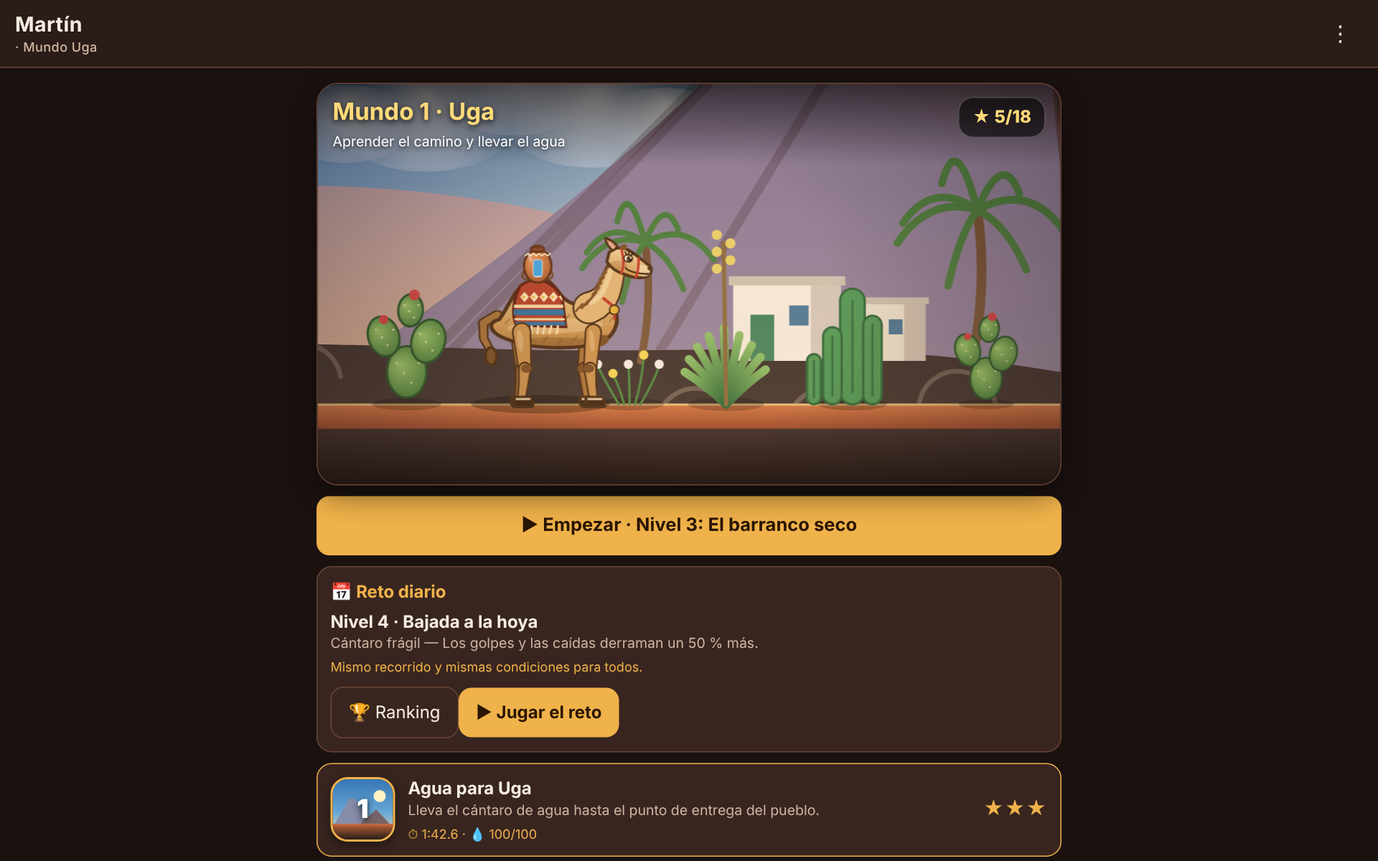
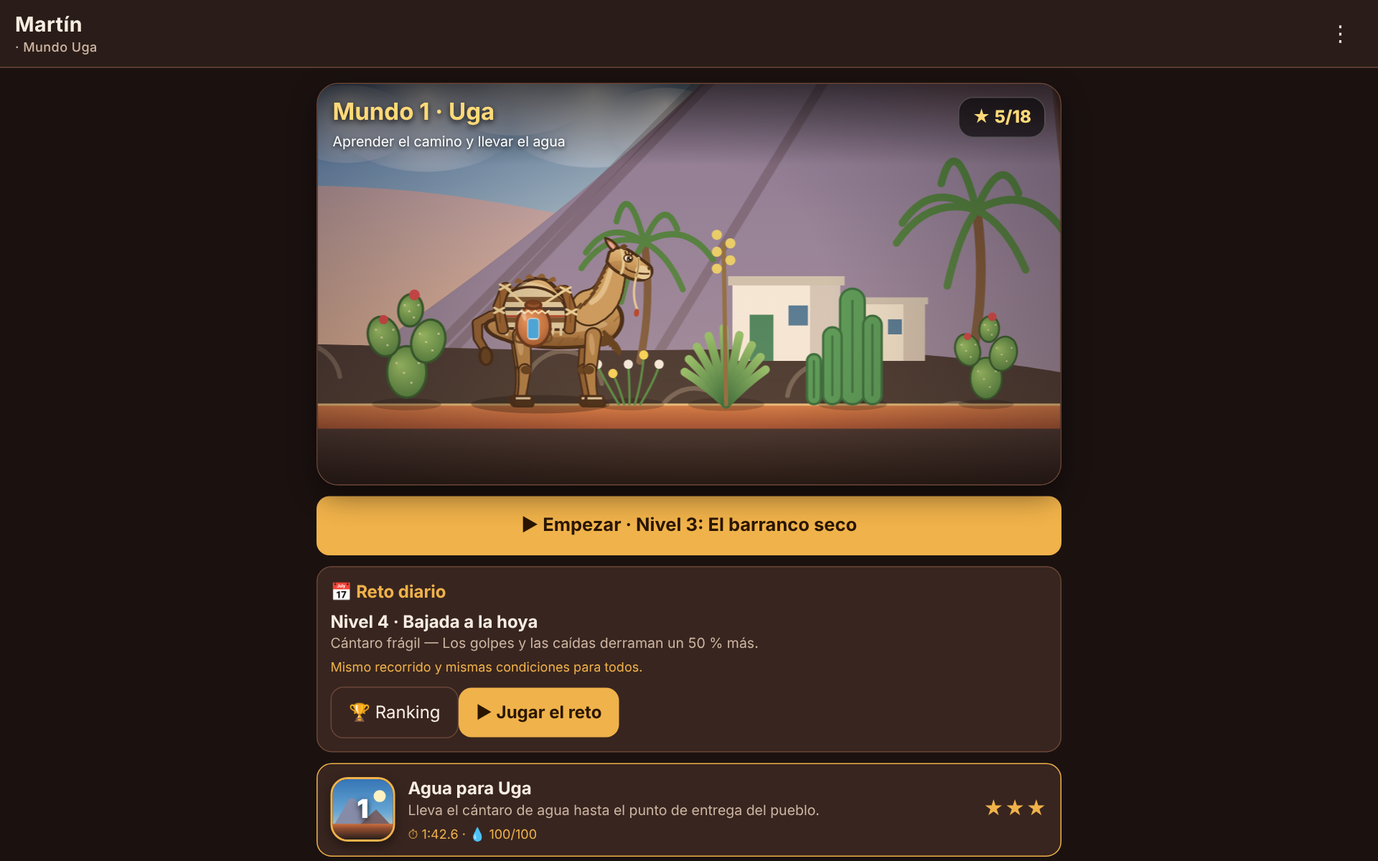
1.4.0: camello canario tradicional (pelaje pardo con pelo largo en la joroba, manta de lana natural, silla de carga de madera con cuerdas, tinaja de barro, cabezada de cuerda con ramal)
Claude-Session: https://claude.ai/code/session_01H2Jf8v1MHtV6zTpVoU4WWj

diff --git a/docs/app/dibujo.js b/docs/app/dibujo.js
@@ -87,7 +87,7 @@
   function suelo(L, x, y) { let best = L.world.kill_y; for (const s of L.solids) if (s.kind !== 'oneway' && s.x0 <= x && s.x1 >= x && s.top <= y + 0.05 && s.top > best) best = s.top; return best; }
 
   /* ================== MARTÍN ================== */
-  const PEL = { luz: '#f0d3a0', claro: '#e0b678', medio: '#c99250', sombra: '#a8733a', osc: '#7a5028', borde: '#4a2e17' };
+  const PEL = { luz: '#dcb67c', claro: '#c79a5e', medio: '#aa7b45', sombra: '#86592f', osc: '#5a3a1c', borde: '#3a2312', hocico: '#e6cfa0' };
 
   /* Trazo cónico (muslo, caña, cuello): primero el contorno, luego el relleno, para que no se vean costuras */
   function conico(ctx, pts, ws, fill, borde, lw) {
@@ -105,7 +105,7 @@
 
   /* Pata de dromedario: cadera → rodilla (almohadilla oscura) → caña fina → pezuña ancha. sg = lado en que dobla la rodilla */
   function pata(ctx, hx, hy, fx, fy, sg, cerca, anchoMuslo) {
-    const a = 0.5, b = 0.48, dx = fx - hx, dy = fy - hy, dd = Math.hypot(dx, dy) || 1, d = Math.min(dd, a + b - 0.004);
+    const a = 0.47, b = 0.45, dx = fx - hx, dy = fy - hy, dd = Math.hypot(dx, dy) || 1, d = Math.min(dd, a + b - 0.004);
     const ux = dx / dd, uy = dy / dd, p = (d * d + a * a - b * b) / (2 * d), h = Math.sqrt(Math.max(0, a * a - p * p));
     const kx = hx + ux * p - uy * h * sg, ky = hy + uy * p + ux * h * sg, ex = hx + ux * d, ey = hy + uy * d;
     const col = cerca ? PEL.medio : PEL.sombra;
@@ -126,17 +126,20 @@
     ctx.beginPath(); ctx.moveTo(-0.17, 0.08);
     ctx.bezierCurveTo(-0.1, 0.19, 0.05, 0.19, 0.17, 0.12);     // frente
     ctx.bezierCurveTo(0.27, 0.07, 0.34, 0.03, 0.4, 0.0);       // caballete
-    ctx.bezierCurveTo(0.45, -0.03, 0.46, -0.11, 0.4, -0.15);   // hocico
-    ctx.bezierCurveTo(0.34, -0.2, 0.2, -0.21, 0.1, -0.18);     // labio y mentón
+    ctx.bezierCurveTo(0.46, -0.03, 0.48, -0.14, 0.4, -0.18);   // hocico
+    ctx.bezierCurveTo(0.34, -0.24, 0.2, -0.24, 0.1, -0.2);     // labio y mentón
     ctx.bezierCurveTo(0.0, -0.17, -0.1, -0.14, -0.18, -0.05); ctx.closePath(); ctx.fill(); ctx.stroke();
     // hocico claro y mejilla
-    ctx.fillStyle = 'rgba(255,240,205,.55)'; ctx.beginPath(); ctx.ellipse(0.33, -0.09, 0.1, 0.075, -0.2, 0, TAU); ctx.fill();
+    ctx.fillStyle = PEL.hocico; ctx.beginPath(); ctx.ellipse(0.33, -0.11, 0.11, 0.09, -0.2, 0, TAU); ctx.fill();
     ctx.fillStyle = 'rgba(120,70,30,.18)'; ctx.beginPath(); ctx.ellipse(-0.02, -0.07, 0.13, 0.06, 0.2, 0, TAU); ctx.fill();
     // ventana de la nariz y boca sonriente
     ctx.fillStyle = '#4a2e17'; ctx.beginPath(); ctx.ellipse(0.4, -0.045, 0.016, 0.026, 0.5, 0, TAU); ctx.fill();
     ctx.strokeStyle = '#4a2e17'; ctx.lineWidth = 0.024; ctx.lineCap = 'round'; ctx.beginPath(); ctx.moveTo(0.41, -0.115); ctx.quadraticCurveTo(0.27, -0.15, 0.13, -0.115); ctx.quadraticCurveTo(0.1, -0.108, 0.09, -0.09); ctx.stroke();
-    // cabezada roja
-    ctx.strokeStyle = '#c23a2a'; ctx.lineWidth = 0.034; ctx.beginPath(); ctx.moveTo(0.24, 0.07); ctx.quadraticCurveTo(0.27, -0.06, 0.25, -0.19); ctx.moveTo(-0.02, 0.17); ctx.quadraticCurveTo(0.08, -0.04, 0.04, -0.17); ctx.stroke();
+    // cabezada de cuerda natural
+    ctx.strokeStyle = '#e4cf9a'; ctx.lineWidth = 0.036; ctx.beginPath(); ctx.moveTo(0.24, 0.07); ctx.quadraticCurveTo(0.27, -0.06, 0.25, -0.19); ctx.moveTo(-0.02, 0.17); ctx.quadraticCurveTo(0.08, -0.04, 0.04, -0.17); ctx.stroke();
+    ctx.strokeStyle = '#8a6a3a'; ctx.lineWidth = 0.014; ctx.beginPath(); ctx.moveTo(0.24, 0.07); ctx.quadraticCurveTo(0.27, -0.06, 0.25, -0.19); ctx.stroke();
+    // ramal de arrastre con borla
+    const rs = Math.sin(T * 2.3) * 0.03; ctx.strokeStyle = '#e4cf9a'; ctx.lineWidth = 0.03; ctx.beginPath(); ctx.moveTo(0.25, -0.2); ctx.quadraticCurveTo(0.2 + rs, -0.45, 0.28 + rs * 2, -0.62); ctx.stroke(); ctx.fillStyle = '#b3402a'; ctx.beginPath(); ctx.ellipse(0.28 + rs * 2, -0.67, 0.035, 0.055, rs, 0, TAU); ctx.fill();
     // oreja
     const fl = Math.sin(T * 2.7) > 0.93 ? 0.35 : 0;
     ctx.save(); ctx.translate(-0.1, 0.14); ctx.rotate(0.55 + fl); ctx.fillStyle = PEL.medio; ctx.strokeStyle = PEL.borde; ctx.lineWidth = 0.03;
@@ -166,7 +169,7 @@
     const sq = st.golpe > 0 ? 1 - st.golpe * 0.12 : 1, f = clamp(st.agua / 100, 0, 1);
     const cabeceo = anim === 'salta' ? 0.1 : anim === 'cae' ? -0.1 : 0;
     ctx.translate(0, hop); ctx.scale(1 + (1 - sq) * 0.6, sq);
-    const hipY = 0.97 + bob, KX = 1.2;
+    const hipY = 0.92 + bob, KX = 1.3;
     const objetivo = (hx, fase, delante, cerca) => {
       if (anim === 'salta') return [hx + (delante ? 0.42 : -0.3), delante ? 0.66 : 0.34];
       if (anim === 'cae') return [hx + (delante ? 0.26 : -0.28), 0.1];
@@ -201,39 +204,45 @@
     for (let i = 0; i < 16; i++) { const x = -0.6 + (i % 8) * 0.17 + (i > 7 ? 0.08 : 0), y = 0.85 + Math.floor(i / 8) * 0.28 + hash(i) * 0.1; ctx.beginPath(); ctx.moveTo(x, y + B); ctx.lineTo(x - 0.05, y - 0.07 + B); ctx.stroke(); }
     ctx.restore();
     ctx.fillStyle = PEL.osc; ctx.beginPath(); ctx.ellipse(0.52, 0.85 + B, 0.1, 0.07, 0.5, 0, TAU); ctx.fill();   // callo del pecho
+    // pelo largo de la joroba y de la pechera
+    ctx.fillStyle = PEL.sombra; ctx.strokeStyle = PEL.borde; ctx.lineWidth = 0.025; ctx.lineJoin = 'round';
+    [[-0.54, 1.46], [-0.47, 1.58], [-0.38, 1.67], [-0.27, 1.73], [-0.15, 1.74], [-0.04, 1.69], [0.03, 1.58]].forEach(([x, y], i) => { const o = Math.sin(T * 2 + i) * 0.012, dx = (i - 3) * 0.022; ctx.beginPath(); ctx.moveTo(x - 0.05, y + B - 0.03); ctx.quadraticCurveTo(x + dx, y + B + 0.1 + o, x + 0.05, y + B - 0.03); ctx.closePath(); ctx.fill(); });
+    ctx.fillStyle = PEL.osc; for (let i = 0; i < 5; i++) { const x = 0.52 + i * 0.03, y = 1.0 - i * 0.04 + B; ctx.beginPath(); ctx.moveTo(x, y); ctx.quadraticCurveTo(x + 0.1, y - 0.15 + Math.sin(T * 2 + i) * 0.01, x + 0.02, y - 0.2); ctx.lineTo(x - 0.03, y - 0.02); ctx.closePath(); ctx.fill(); }
     ctx.restore();
     // cuello curvo con crin
     const sway = Math.sin(ph * 0.5) * (corre ? 0.05 : 0.01) + Math.sin(T * 1.7) * 0.012, tip = anim === 'salta' ? 0.08 : anim === 'cae' ? -0.1 : 0;
     const N = [[0.46, 1.3 + B], [0.78, 1.4 + B], [0.74, 1.68 + B], [0.86 + sway, 1.92 + B + tip]];
     const cub = q => { const m = 1 - q; return [m * m * m * N[0][0] + 3 * m * m * q * N[1][0] + 3 * m * q * q * N[2][0] + q * q * q * N[3][0], m * m * m * N[0][1] + 3 * m * m * q * N[1][1] + 3 * m * q * q * N[2][1] + q * q * q * N[3][1]]; };
-    const pts = [], ws = []; for (let i = 0; i <= 10; i++) { const q = i / 10; pts.push(cub(q)); ws.push(0.4 - q * 0.19); }
+    const pts = [], ws = []; for (let i = 0; i <= 10; i++) { const q = i / 10; pts.push(cub(q)); ws.push(0.46 - q * 0.22); }
     conico(ctx, pts, ws, PEL.claro, PEL.borde, 0.05);
     ctx.strokeStyle = 'rgba(255,240,200,.45)'; ctx.lineWidth = 0.07; ctx.beginPath(); for (let i = 1; i <= 8; i++) { const [x, y] = pts[i]; i === 1 ? ctx.moveTo(x - 0.05, y + 0.04) : ctx.lineTo(x - 0.05, y + 0.04); } ctx.stroke();
     ctx.strokeStyle = PEL.osc; ctx.lineWidth = 0.03; for (let i = 1; i < 10; i++) { const [x, y] = pts[i]; ctx.beginPath(); ctx.moveTo(x - ws[i] * 0.45, y + 0.02); ctx.lineTo(x - ws[i] * 0.45 - 0.09, y - 0.08 + Math.sin(T * 3 + i) * 0.01); ctx.stroke(); }
-    // campanilla con borla
-    const [bx, by] = pts[3], bs = Math.sin(T * 4 + ph) * (corre ? 0.18 : 0.04);
-    ctx.save(); ctx.translate(bx + 0.14, by - 0.12); ctx.rotate(bs); ctx.strokeStyle = '#c23a2a'; ctx.lineWidth = 0.04; ctx.beginPath(); ctx.moveTo(-0.14, 0.12); ctx.lineTo(0, 0); ctx.stroke(); ctx.fillStyle = '#e6b23a'; ctx.strokeStyle = PEL.borde; ctx.lineWidth = 0.02; ctx.beginPath(); ctx.arc(0, -0.04, 0.065, 0, TAU); ctx.fill(); ctx.stroke(); ctx.fillStyle = '#5a3a14'; ctx.fillRect(-0.02, -0.12, 0.04, 0.03); ctx.fillStyle = '#c23a2a'; ctx.fillRect(-0.015, -0.18, 0.03, 0.08); ctx.restore();
     // cabeza
     ctx.save(); ctx.translate(pts[10][0] + 0.02, pts[10][1] + 0.03); ctx.rotate(-0.18 - tip * 0.8 + sway); cabeza(ctx, T, st); ctx.restore();
-    // manta tejida con flecos (solo sobre la joroba)
+    // manta de lana natural y silla de carga de madera (como las de los camellos de Timanfaya)
     ctx.save(); ctx.scale(KX, 1);
-    ctx.beginPath(); ctx.moveTo(-0.4, 1.6 + B); ctx.bezierCurveTo(-0.26, 1.74 + B, -0.02, 1.7 + B, 0.08, 1.42 + B); ctx.lineTo(0.12, 1.04 + B); ctx.lineTo(-0.44, 1.06 + B); ctx.bezierCurveTo(-0.5, 1.2 + B, -0.48, 1.42 + B, -0.4, 1.6 + B); ctx.closePath();
-    ctx.fillStyle = '#b3402a'; ctx.fill(); ctx.strokeStyle = '#5e1d12'; ctx.lineWidth = 0.035; ctx.stroke();
+    ctx.beginPath(); ctx.moveTo(-0.5, 1.5 + B); ctx.bezierCurveTo(-0.34, 1.64 + B, -0.04, 1.62 + B, 0.1, 1.34 + B); ctx.lineTo(0.15, 1.0 + B); ctx.lineTo(-0.52, 1.02 + B); ctx.bezierCurveTo(-0.58, 1.18 + B, -0.56, 1.36 + B, -0.5, 1.5 + B); ctx.closePath();
+    ctx.fillStyle = '#d9c7a0'; ctx.fill(); ctx.strokeStyle = PEL.borde; ctx.lineWidth = 0.035; ctx.stroke();
     ctx.save(); ctx.clip();
-    for (const [yy, c, w] of [[1.3, '#f0d9a8', 0.045], [1.2, '#2f6f9f', 0.08], [1.13, '#f0d9a8', 0.03], [1.06, '#2f6f9f', 0.05]]) { ctx.fillStyle = c; ctx.fillRect(-0.7, yy + B, 1.0, w); }
-    ctx.fillStyle = '#f6e4b8'; for (let i = 0; i < 5; i++) { const x = -0.4 + i * 0.11; ctx.beginPath(); ctx.moveTo(x, 1.45 + B); ctx.lineTo(x + 0.05, 1.52 + B); ctx.lineTo(x + 0.1, 1.45 + B); ctx.lineTo(x + 0.05, 1.38 + B); ctx.closePath(); ctx.fill(); }
-    ctx.fillStyle = '#e6b23a'; for (let i = 0; i < 5; i++) ctx.fillRect(-0.375 + i * 0.11, 1.435 + B, 0.03, 0.03);
+    for (const [yy, c, w] of [[1.38, '#6b4a2b', 0.07], [1.26, '#3d322b', 0.05], [1.17, '#a8402a', 0.03], [1.1, '#6b4a2b', 0.07]]) { ctx.fillStyle = c; ctx.fillRect(-0.7, yy + B, 1.0, w); }
     ctx.restore();
-    ctx.strokeStyle = '#f0d9a8'; ctx.lineWidth = 0.026; for (let i = 0; i < 7; i++) { const x = -0.42 + i * 0.075; ctx.beginPath(); ctx.moveTo(x, 1.05 + B); ctx.lineTo(x - 0.01 + Math.sin(ph + i) * 0.012, 0.95 + B); ctx.stroke(); }
+    ctx.strokeStyle = '#d9c7a0'; ctx.lineWidth = 0.028; for (let i = 0; i < 8; i++) { const x = -0.5 + i * 0.08; ctx.beginPath(); ctx.moveTo(x, 1.02 + B); ctx.lineTo(x - 0.01 + Math.sin(ph + i) * 0.012, 0.93 + B); ctx.stroke(); }
+    // armazón de madera: dos horcones y travesaño, atados con cuerda
+    const madera = '#8d5a2c', vet = 'rgba(40,20,8,.35)';
+    conico(ctx, [[-0.55, 1.0 + B], [-0.6, 1.32 + B], [-0.52, 1.6 + B]], [0.09, 0.08, 0.07], madera, PEL.borde, 0.04);
+    conico(ctx, [[0.15, 1.0 + B], [0.17, 1.28 + B], [0.1, 1.56 + B]], [0.09, 0.08, 0.07], madera, PEL.borde, 0.04);
+    ctx.strokeStyle = vet; ctx.lineWidth = 0.012; ctx.beginPath(); ctx.moveTo(-0.58, 1.1 + B); ctx.lineTo(-0.58, 1.5 + B); ctx.moveTo(0.16, 1.1 + B); ctx.lineTo(0.15, 1.46 + B); ctx.stroke();
+    ctx.strokeStyle = '#e4cf9a'; ctx.lineWidth = 0.03; for (const [x, y] of [[-0.53, 1.58], [0.11, 1.54], [-0.59, 1.26], [0.17, 1.24]]) { ctx.beginPath(); ctx.moveTo(x - 0.05, y - 0.03 + B); ctx.lineTo(x + 0.05, y + 0.04 + B); ctx.moveTo(x - 0.05, y + 0.04 + B); ctx.lineTo(x + 0.05, y - 0.03 + B); ctx.stroke(); }
     ctx.restore(); ctx.restore();
     // patas cercanas (por delante del cuerpo)
     ctx.save(); ctx.translate(0, hipY); ctx.rotate(cabeceo * 0.4); ctx.translate(0, -hipY);
     for (let i = 2; i < 4; i++) { const [hx, fa, de, ce, sg, an] = patas[i]; const [fx, fy] = objetivo(hx, fa, de, ce); pata(ctx, hx, hipY, fx, fy, sg, ce, an); }
     ctx.restore();
-    // cántaro anclado a la joroba con cuerdas
+    // tinaja de barro colgada de la silla con una red de cuerda
     ctx.save(); ctx.translate(0, hipY); ctx.rotate(cabeceo); ctx.translate(0, -hipY);
-    const jx = -0.24, jy = 1.7 + B + (anim === 'gana' ? 0.16 : 0) + (corre ? Math.sin(ph * 2) * 0.014 : 0);
-    ctx.translate(jx, jy); ctx.scale(0.78, 0.78); ctx.translate(-jx, -jy);
+    const jx = -0.3, jy = 0.84 + B + (anim === 'gana' ? 0.14 : 0) + (corre ? Math.sin(ph * 2) * 0.014 : 0);
+    ctx.strokeStyle = '#e4cf9a'; ctx.lineWidth = 0.032; ctx.lineCap = 'round'; ctx.beginPath(); ctx.moveTo(jx - 0.12, jy + 0.5); ctx.lineTo(-0.68, 1.58 + B); ctx.moveTo(jx + 0.12, jy + 0.5); ctx.lineTo(0.13, 1.54 + B); ctx.stroke();
+    ctx.translate(jx, jy); ctx.scale(0.96, 0.96); ctx.translate(-jx, -jy);
     ctx.strokeStyle = '#6a4424'; ctx.lineWidth = 0.034; ctx.lineCap = 'round'; ctx.beginPath(); ctx.moveTo(jx - 0.22, jy + 0.16); ctx.quadraticCurveTo(jx - 0.36, jy - 0.04, jx - 0.1, jy - 0.01); ctx.moveTo(jx + 0.22, jy + 0.16); ctx.quadraticCurveTo(jx + 0.34, jy - 0.03, jx + 0.1, jy - 0.01); ctx.stroke();
     ctx.beginPath(); ctx.ellipse(jx, jy + 0.22, 0.24, 0.29, 0, 0, TAU);
     g = ctx.createRadialGradient(jx - 0.09, jy + 0.34, 0.02, jx, jy + 0.22, 0.34); g.addColorStop(0, '#e89862'); g.addColorStop(0.6, COL.cantaro); g.addColorStop(1, COL.cantaro2); ctx.fillStyle = g; ctx.fill(); ctx.strokeStyle = '#5e2f17'; ctx.lineWidth = 0.04; ctx.stroke();

diff --git a/www/dibujo.js b/www/dibujo.js
@@ -87,7 +87,7 @@
   function suelo(L, x, y) { let best = L.world.kill_y; for (const s of L.solids) if (s.kind !== 'oneway' && s.x0 <= x && s.x1 >= x && s.top <= y + 0.05 && s.top > best) best = s.top; return best; }
 
   /* ================== MARTÍN ================== */
-  const PEL = { luz: '#f0d3a0', claro: '#e0b678', medio: '#c99250', sombra: '#a8733a', osc: '#7a5028', borde: '#4a2e17' };
+  const PEL = { luz: '#dcb67c', claro: '#c79a5e', medio: '#aa7b45', sombra: '#86592f', osc: '#5a3a1c', borde: '#3a2312', hocico: '#e6cfa0' };
 
   /* Trazo cónico (muslo, caña, cuello): primero el contorno, luego el relleno, para que no se vean costuras */
   function conico(ctx, pts, ws, fill, borde, lw) {
@@ -105,7 +105,7 @@
 
   /* Pata de dromedario: cadera → rodilla (almohadilla oscura) → caña fina → pezuña ancha. sg = lado en que dobla la rodilla */
   function pata(ctx, hx, hy, fx, fy, sg, cerca, anchoMuslo) {
-    const a = 0.5, b = 0.48, dx = fx - hx, dy = fy - hy, dd = Math.hypot(dx, dy) || 1, d = Math.min(dd, a + b - 0.004);
+    const a = 0.47, b = 0.45, dx = fx - hx, dy = fy - hy, dd = Math.hypot(dx, dy) || 1, d = Math.min(dd, a + b - 0.004);
     const ux = dx / dd, uy = dy / dd, p = (d * d + a * a - b * b) / (2 * d), h = Math.sqrt(Math.max(0, a * a - p * p));
     const kx = hx + ux * p - uy * h * sg, ky = hy + uy * p + ux * h * sg, ex = hx + ux * d, ey = hy + uy * d;
     const col = cerca ? PEL.medio : PEL.sombra;
@@ -126,17 +126,20 @@
     ctx.beginPath(); ctx.moveTo(-0.17, 0.08);
     ctx.bezierCurveTo(-0.1, 0.19, 0.05, 0.19, 0.17, 0.12);     // frente
     ctx.bezierCurveTo(0.27, 0.07, 0.34, 0.03, 0.4, 0.0);       // caballete
-    ctx.bezierCurveTo(0.45, -0.03, 0.46, -0.11, 0.4, -0.15);   // hocico
-    ctx.bezierCurveTo(0.34, -0.2, 0.2, -0.21, 0.1, -0.18);     // labio y mentón
+    ctx.bezierCurveTo(0.46, -0.03, 0.48, -0.14, 0.4, -0.18);   // hocico
+    ctx.bezierCurveTo(0.34, -0.24, 0.2, -0.24, 0.1, -0.2);     // labio y mentón
     ctx.bezierCurveTo(0.0, -0.17, -0.1, -0.14, -0.18, -0.05); ctx.closePath(); ctx.fill(); ctx.stroke();
     // hocico claro y mejilla
-    ctx.fillStyle = 'rgba(255,240,205,.55)'; ctx.beginPath(); ctx.ellipse(0.33, -0.09, 0.1, 0.075, -0.2, 0, TAU); ctx.fill();
+    ctx.fillStyle = PEL.hocico; ctx.beginPath(); ctx.ellipse(0.33, -0.11, 0.11, 0.09, -0.2, 0, TAU); ctx.fill();
     ctx.fillStyle = 'rgba(120,70,30,.18)'; ctx.beginPath(); ctx.ellipse(-0.02, -0.07, 0.13, 0.06, 0.2, 0, TAU); ctx.fill();
     // ventana de la nariz y boca sonriente
     ctx.fillStyle = '#4a2e17'; ctx.beginPath(); ctx.ellipse(0.4, -0.045, 0.016, 0.026, 0.5, 0, TAU); ctx.fill();
     ctx.strokeStyle = '#4a2e17'; ctx.lineWidth = 0.024; ctx.lineCap = 'round'; ctx.beginPath(); ctx.moveTo(0.41, -0.115); ctx.quadraticCurveTo(0.27, -0.15, 0.13, -0.115); ctx.quadraticCurveTo(0.1, -0.108, 0.09, -0.09); ctx.stroke();
-    // cabezada roja
-    ctx.strokeStyle = '#c23a2a'; ctx.lineWidth = 0.034; ctx.beginPath(); ctx.moveTo(0.24, 0.07); ctx.quadraticCurveTo(0.27, -0.06, 0.25, -0.19); ctx.moveTo(-0.02, 0.17); ctx.quadraticCurveTo(0.08, -0.04, 0.04, -0.17); ctx.stroke();
+    // cabezada de cuerda natural
+    ctx.strokeStyle = '#e4cf9a'; ctx.lineWidth = 0.036; ctx.beginPath(); ctx.moveTo(0.24, 0.07); ctx.quadraticCurveTo(0.27, -0.06, 0.25, -0.19); ctx.moveTo(-0.02, 0.17); ctx.quadraticCurveTo(0.08, -0.04, 0.04, -0.17); ctx.stroke();
+    ctx.strokeStyle = '#8a6a3a'; ctx.lineWidth = 0.014; ctx.beginPath(); ctx.moveTo(0.24, 0.07); ctx.quadraticCurveTo(0.27, -0.06, 0.25, -0.19); ctx.stroke();
+    // ramal de arrastre con borla
+    const rs = Math.sin(T * 2.3) * 0.03; ctx.strokeStyle = '#e4cf9a'; ctx.lineWidth = 0.03; ctx.beginPath(); ctx.moveTo(0.25, -0.2); ctx.quadraticCurveTo(0.2 + rs, -0.45, 0.28 + rs * 2, -0.62); ctx.stroke(); ctx.fillStyle = '#b3402a'; ctx.beginPath(); ctx.ellipse(0.28 + rs * 2, -0.67, 0.035, 0.055, rs, 0, TAU); ctx.fill();
     // oreja
     const fl = Math.sin(T * 2.7) > 0.93 ? 0.35 : 0;
     ctx.save(); ctx.translate(-0.1, 0.14); ctx.rotate(0.55 + fl); ctx.fillStyle = PEL.medio; ctx.strokeStyle = PEL.borde; ctx.lineWidth = 0.03;
@@ -166,7 +169,7 @@
     const sq = st.golpe > 0 ? 1 - st.golpe * 0.12 : 1, f = clamp(st.agua / 100, 0, 1);
     const cabeceo = anim === 'salta' ? 0.1 : anim === 'cae' ? -0.1 : 0;
     ctx.translate(0, hop); ctx.scale(1 + (1 - sq) * 0.6, sq);
-    const hipY = 0.97 + bob, KX = 1.2;
+    const hipY = 0.92 + bob, KX = 1.3;
     const objetivo = (hx, fase, delante, cerca) => {
       if (anim === 'salta') return [hx + (delante ? 0.42 : -0.3), delante ? 0.66 : 0.34];
       if (anim === 'cae') return [hx + (delante ? 0.26 : -0.28), 0.1];
@@ -201,39 +204,45 @@
     for (let i = 0; i < 16; i++) { const x = -0.6 + (i % 8) * 0.17 + (i > 7 ? 0.08 : 0), y = 0.85 + Math.floor(i / 8) * 0.28 + hash(i) * 0.1; ctx.beginPath(); ctx.moveTo(x, y + B); ctx.lineTo(x - 0.05, y - 0.07 + B); ctx.stroke(); }
     ctx.restore();
     ctx.fillStyle = PEL.osc; ctx.beginPath(); ctx.ellipse(0.52, 0.85 + B, 0.1, 0.07, 0.5, 0, TAU); ctx.fill();   // callo del pecho
+    // pelo largo de la joroba y de la pechera
+    ctx.fillStyle = PEL.sombra; ctx.strokeStyle = PEL.borde; ctx.lineWidth = 0.025; ctx.lineJoin = 'round';
+    [[-0.54, 1.46], [-0.47, 1.58], [-0.38, 1.67], [-0.27, 1.73], [-0.15, 1.74], [-0.04, 1.69], [0.03, 1.58]].forEach(([x, y], i) => { const o = Math.sin(T * 2 + i) * 0.012, dx = (i - 3) * 0.022; ctx.beginPath(); ctx.moveTo(x - 0.05, y + B - 0.03); ctx.quadraticCurveTo(x + dx, y + B + 0.1 + o, x + 0.05, y + B - 0.03); ctx.closePath(); ctx.fill(); });
+    ctx.fillStyle = PEL.osc; for (let i = 0; i < 5; i++) { const x = 0.52 + i * 0.03, y = 1.0 - i * 0.04 + B; ctx.beginPath(); ctx.moveTo(x, y); ctx.quadraticCurveTo(x + 0.1, y - 0.15 + Math.sin(T * 2 + i) * 0.01, x + 0.02, y - 0.2); ctx.lineTo(x - 0.03, y - 0.02); ctx.closePath(); ctx.fill(); }
     ctx.restore();
     // cuello curvo con crin
     const sway = Math.sin(ph * 0.5) * (corre ? 0.05 : 0.01) + Math.sin(T * 1.7) * 0.012, tip = anim === 'salta' ? 0.08 : anim === 'cae' ? -0.1 : 0;
     const N = [[0.46, 1.3 + B], [0.78, 1.4 + B], [0.74, 1.68 + B], [0.86 + sway, 1.92 + B + tip]];
     const cub = q => { const m = 1 - q; return [m * m * m * N[0][0] + 3 * m * m * q * N[1][0] + 3 * m * q * q * N[2][0] + q * q * q * N[3][0], m * m * m * N[0][1] + 3 * m * m * q * N[1][1] + 3 * m * q * q * N[2][1] + q * q * q * N[3][1]]; };
-    const pts = [], ws = []; for (let i = 0; i <= 10; i++) { const q = i / 10; pts.push(cub(q)); ws.push(0.4 - q * 0.19); }
+    const pts = [], ws = []; for (let i = 0; i <= 10; i++) { const q = i / 10; pts.push(cub(q)); ws.push(0.46 - q * 0.22); }
     conico(ctx, pts, ws, PEL.claro, PEL.borde, 0.05);
     ctx.strokeStyle = 'rgba(255,240,200,.45)'; ctx.lineWidth = 0.07; ctx.beginPath(); for (let i = 1; i <= 8; i++) { const [x, y] = pts[i]; i === 1 ? ctx.moveTo(x - 0.05, y + 0.04) : ctx.lineTo(x - 0.05, y + 0.04); } ctx.stroke();
     ctx.strokeStyle = PEL.osc; ctx.lineWidth = 0.03; for (let i = 1; i < 10; i++) { const [x, y] = pts[i]; ctx.beginPath(); ctx.moveTo(x - ws[i] * 0.45, y + 0.02); ctx.lineTo(x - ws[i] * 0.45 - 0.09, y - 0.08 + Math.sin(T * 3 + i) * 0.01); ctx.stroke(); }
-    // campanilla con borla
-    const [bx, by] = pts[3], bs = Math.sin(T * 4 + ph) * (corre ? 0.18 : 0.04);
-    ctx.save(); ctx.translate(bx + 0.14, by - 0.12); ctx.rotate(bs); ctx.strokeStyle = '#c23a2a'; ctx.lineWidth = 0.04; ctx.beginPath(); ctx.moveTo(-0.14, 0.12); ctx.lineTo(0, 0); ctx.stroke(); ctx.fillStyle = '#e6b23a'; ctx.strokeStyle = PEL.borde; ctx.lineWidth = 0.02; ctx.beginPath(); ctx.arc(0, -0.04, 0.065, 0, TAU); ctx.fill(); ctx.stroke(); ctx.fillStyle = '#5a3a14'; ctx.fillRect(-0.02, -0.12, 0.04, 0.03); ctx.fillStyle = '#c23a2a'; ctx.fillRect(-0.015, -0.18, 0.03, 0.08); ctx.restore();
     // cabeza
     ctx.save(); ctx.translate(pts[10][0] + 0.02, pts[10][1] + 0.03); ctx.rotate(-0.18 - tip * 0.8 + sway); cabeza(ctx, T, st); ctx.restore();
-    // manta tejida con flecos (solo sobre la joroba)
+    // manta de lana natural y silla de carga de madera (como las de los camellos de Timanfaya)
     ctx.save(); ctx.scale(KX, 1);
-    ctx.beginPath(); ctx.moveTo(-0.4, 1.6 + B); ctx.bezierCurveTo(-0.26, 1.74 + B, -0.02, 1.7 + B, 0.08, 1.42 + B); ctx.lineTo(0.12, 1.04 + B); ctx.lineTo(-0.44, 1.06 + B); ctx.bezierCurveTo(-0.5, 1.2 + B, -0.48, 1.42 + B, -0.4, 1.6 + B); ctx.closePath();
-    ctx.fillStyle = '#b3402a'; ctx.fill(); ctx.strokeStyle = '#5e1d12'; ctx.lineWidth = 0.035; ctx.stroke();
+    ctx.beginPath(); ctx.moveTo(-0.5, 1.5 + B); ctx.bezierCurveTo(-0.34, 1.64 + B, -0.04, 1.62 + B, 0.1, 1.34 + B); ctx.lineTo(0.15, 1.0 + B); ctx.lineTo(-0.52, 1.02 + B); ctx.bezierCurveTo(-0.58, 1.18 + B, -0.56, 1.36 + B, -0.5, 1.5 + B); ctx.closePath();
+    ctx.fillStyle = '#d9c7a0'; ctx.fill(); ctx.strokeStyle = PEL.borde; ctx.lineWidth = 0.035; ctx.stroke();
     ctx.save(); ctx.clip();
-    for (const [yy, c, w] of [[1.3, '#f0d9a8', 0.045], [1.2, '#2f6f9f', 0.08], [1.13, '#f0d9a8', 0.03], [1.06, '#2f6f9f', 0.05]]) { ctx.fillStyle = c; ctx.fillRect(-0.7, yy + B, 1.0, w); }
-    ctx.fillStyle = '#f6e4b8'; for (let i = 0; i < 5; i++) { const x = -0.4 + i * 0.11; ctx.beginPath(); ctx.moveTo(x, 1.45 + B); ctx.lineTo(x + 0.05, 1.52 + B); ctx.lineTo(x + 0.1, 1.45 + B); ctx.lineTo(x + 0.05, 1.38 + B); ctx.closePath(); ctx.fill(); }
-    ctx.fillStyle = '#e6b23a'; for (let i = 0; i < 5; i++) ctx.fillRect(-0.375 + i * 0.11, 1.435 + B, 0.03, 0.03);
+    for (const [yy, c, w] of [[1.38, '#6b4a2b', 0.07], [1.26, '#3d322b', 0.05], [1.17, '#a8402a', 0.03], [1.1, '#6b4a2b', 0.07]]) { ctx.fillStyle = c; ctx.fillRect(-0.7, yy + B, 1.0, w); }
     ctx.restore();
-    ctx.strokeStyle = '#f0d9a8'; ctx.lineWidth = 0.026; for (let i = 0; i < 7; i++) { const x = -0.42 + i * 0.075; ctx.beginPath(); ctx.moveTo(x, 1.05 + B); ctx.lineTo(x - 0.01 + Math.sin(ph + i) * 0.012, 0.95 + B); ctx.stroke(); }
+    ctx.strokeStyle = '#d9c7a0'; ctx.lineWidth = 0.028; for (let i = 0; i < 8; i++) { const x = -0.5 + i * 0.08; ctx.beginPath(); ctx.moveTo(x, 1.02 + B); ctx.lineTo(x - 0.01 + Math.sin(ph + i) * 0.012, 0.93 + B); ctx.stroke(); }
+    // armazón de madera: dos horcones y travesaño, atados con cuerda
+    const madera = '#8d5a2c', vet = 'rgba(40,20,8,.35)';
+    conico(ctx, [[-0.55, 1.0 + B], [-0.6, 1.32 + B], [-0.52, 1.6 + B]], [0.09, 0.08, 0.07], madera, PEL.borde, 0.04);
+    conico(ctx, [[0.15, 1.0 + B], [0.17, 1.28 + B], [0.1, 1.56 + B]], [0.09, 0.08, 0.07], madera, PEL.borde, 0.04);
+    ctx.strokeStyle = vet; ctx.lineWidth = 0.012; ctx.beginPath(); ctx.moveTo(-0.58, 1.1 + B); ctx.lineTo(-0.58, 1.5 + B); ctx.moveTo(0.16, 1.1 + B); ctx.lineTo(0.15, 1.46 + B); ctx.stroke();
+    ctx.strokeStyle = '#e4cf9a'; ctx.lineWidth = 0.03; for (const [x, y] of [[-0.53, 1.58], [0.11, 1.54], [-0.59, 1.26], [0.17, 1.24]]) { ctx.beginPath(); ctx.moveTo(x - 0.05, y - 0.03 + B); ctx.lineTo(x + 0.05, y + 0.04 + B); ctx.moveTo(x - 0.05, y + 0.04 + B); ctx.lineTo(x + 0.05, y - 0.03 + B); ctx.stroke(); }
     ctx.restore(); ctx.restore();
     // patas cercanas (por delante del cuerpo)
     ctx.save(); ctx.translate(0, hipY); ctx.rotate(cabeceo * 0.4); ctx.translate(0, -hipY);
     for (let i = 2; i < 4; i++) { const [hx, fa, de, ce, sg, an] = patas[i]; const [fx, fy] = objetivo(hx, fa, de, ce); pata(ctx, hx, hipY, fx, fy, sg, ce, an); }
     ctx.restore();
-    // cántaro anclado a la joroba con cuerdas
+    // tinaja de barro colgada de la silla con una red de cuerda
     ctx.save(); ctx.translate(0, hipY); ctx.rotate(cabeceo); ctx.translate(0, -hipY);
-    const jx = -0.24, jy = 1.7 + B + (anim === 'gana' ? 0.16 : 0) + (corre ? Math.sin(ph * 2) * 0.014 : 0);
-    ctx.translate(jx, jy); ctx.scale(0.78, 0.78); ctx.translate(-jx, -jy);
+    const jx = -0.3, jy = 0.84 + B + (anim === 'gana' ? 0.14 : 0) + (corre ? Math.sin(ph * 2) * 0.014 : 0);
+    ctx.strokeStyle = '#e4cf9a'; ctx.lineWidth = 0.032; ctx.lineCap = 'round'; ctx.beginPath(); ctx.moveTo(jx - 0.12, jy + 0.5); ctx.lineTo(-0.68, 1.58 + B); ctx.moveTo(jx + 0.12, jy + 0.5); ctx.lineTo(0.13, 1.54 + B); ctx.stroke();
+    ctx.translate(jx, jy); ctx.scale(0.96, 0.96); ctx.translate(-jx, -jy);
     ctx.strokeStyle = '#6a4424'; ctx.lineWidth = 0.034; ctx.lineCap = 'round'; ctx.beginPath(); ctx.moveTo(jx - 0.22, jy + 0.16); ctx.quadraticCurveTo(jx - 0.36, jy - 0.04, jx - 0.1, jy - 0.01); ctx.moveTo(jx + 0.22, jy + 0.16); ctx.quadraticCurveTo(jx + 0.34, jy - 0.03, jx + 0.1, jy - 0.01); ctx.stroke();
     ctx.beginPath(); ctx.ellipse(jx, jy + 0.22, 0.24, 0.29, 0, 0, TAU);
     g = ctx.createRadialGradient(jx - 0.09, jy + 0.34, 0.02, jx, jy + 0.22, 0.34); g.addColorStop(0, '#e89862'); g.addColorStop(0.6, COL.cantaro); g.addColorStop(1, COL.cantaro2); ctx.fillStyle = g; ctx.fill(); ctx.strokeStyle = '#5e2f17'; ctx.lineWidth = 0.04; ctx.stroke();

diff --git a/docs/app/sw.js b/docs/app/sw.js
@@ -1,7 +1,7 @@
 // Service worker: deja la versión web disponible sin conexión.
 // En la app Android no hace falta (los archivos ya van dentro del APK) y podría servir
 // una versión antigua tras actualizar, así que allí se da de baja solo.
-const CACHE = 'martin-v1.3.0';
+const CACHE = 'martin-v1.4.0';
 const ASSETS = ['./', 'index.html', 'martin.js', 'niveles.js', 'juego.js', 'dibujo.js', 'manifest.webmanifest', 'icons/icon-192.png', 'icons/icon-512.png', 'icons/icon-maskable-512.png', 'icons/apple-touch-icon.png', 'i18n-en.js', 'i18n-fr.js', 'i18n-de.js', 'i18n-it.js', 'idioma.js', 'masjuegos.js', 'audio-suave.js', 'turno.js', 'contador.js', 'invitacion.js', 'publicas.js', 'juegos/ajedrez.png', 'juegos/chinchon.png', 'juegos/pumba.png', 'juegos/damas.png', 'juegos/parchis.png', 'juegos/poker.png', 'juegos/uno.png', 'juegos/martin.png'];
 const NATIVE = self.location.hostname === 'localhost' && self.location.protocol === 'https:';
 

diff --git a/www/sw.js b/www/sw.js
@@ -1,7 +1,7 @@
 // Service worker: deja la versión web disponible sin conexión.
 // En la app Android no hace falta (los archivos ya van dentro del APK) y podría servir
 // una versión antigua tras actualizar, así que allí se da de baja solo.
-const CACHE = 'martin-v1.3.0';
+const CACHE = 'martin-v1.4.0';
 const ASSETS = ['./', 'index.html', 'martin.js', 'niveles.js', 'juego.js', 'dibujo.js', 'manifest.webmanifest', 'icons/icon-192.png', 'icons/icon-512.png', 'icons/icon-maskable-512.png', 'icons/apple-touch-icon.png', 'i18n-en.js', 'i18n-fr.js', 'i18n-de.js', 'i18n-it.js', 'idioma.js', 'masjuegos.js', 'audio-suave.js', 'turno.js', 'contador.js', 'invitacion.js', 'publicas.js', 'juegos/ajedrez.png', 'juegos/chinchon.png', 'juegos/pumba.png', 'juegos/damas.png', 'juegos/parchis.png', 'juegos/poker.png', 'juegos/uno.png', 'juegos/martin.png'];
 const NATIVE = self.location.hostname === 'localhost' && self.location.protocol === 'https:';
 

diff --git a/docs/app/index.html b/docs/app/index.html
@@ -406,7 +406,7 @@ function openThemes() {
   AvisoTurno.enlazar();
 }
 
-const APP_VERSION = '1.3.0';
+const APP_VERSION = '1.4.0';
 const REPO = 'csuarezsm/Martin';
 const MAX_ARCHIVE = 500;
 const uid = () => Math.random().toString(36).slice(2, 10);

diff --git a/www/index.html b/www/index.html
@@ -406,7 +406,7 @@ function openThemes() {
   AvisoTurno.enlazar();
 }
 
-const APP_VERSION = '1.3.0';
+const APP_VERSION = '1.4.0';
 const REPO = 'csuarezsm/Martin';
 const MAX_ARCHIVE = 500;
 const uid = () => Math.random().toString(36).slice(2, 10);

diff --git a/README.md b/README.md
@@ -2,7 +2,7 @@
 
 Un camello canario joven de Uga lleva el agua por los caminos que dejó la tormenta: lava, rocas, huecos y bajadas. **6 niveles de plataformas** con tres estrellas cada uno, a veces con dos caminos (uno rápido y arriesgado, otro lento y seguro), y un **reto diario** igual para todos con ranking.
 Para Android e iPhone. Gratis, sin anuncios y sin cuentas. App Capacitor + web (`www/`). Todo se guarda en el móvil; solo el reto diario usa el servidor de juegos (nombre y pulsaciones, para comprobar el tiempo).
-Paquete: `com.itcanarias.martin` · versión 1.3.0
+Paquete: `com.itcanarias.martin` · versión 1.4.0
 
 **iPhone y navegadores**: la misma app se publica como versión web instalable en https://csuarezsm.github.io/Martin/app/ (GitHub Pages, carpeta `docs/app`, copia de `www/`). En Safari: Compartir → «Añadir a pantalla de inicio». Tras cambiar `www/`, ejecuta `npm run web`.
 
